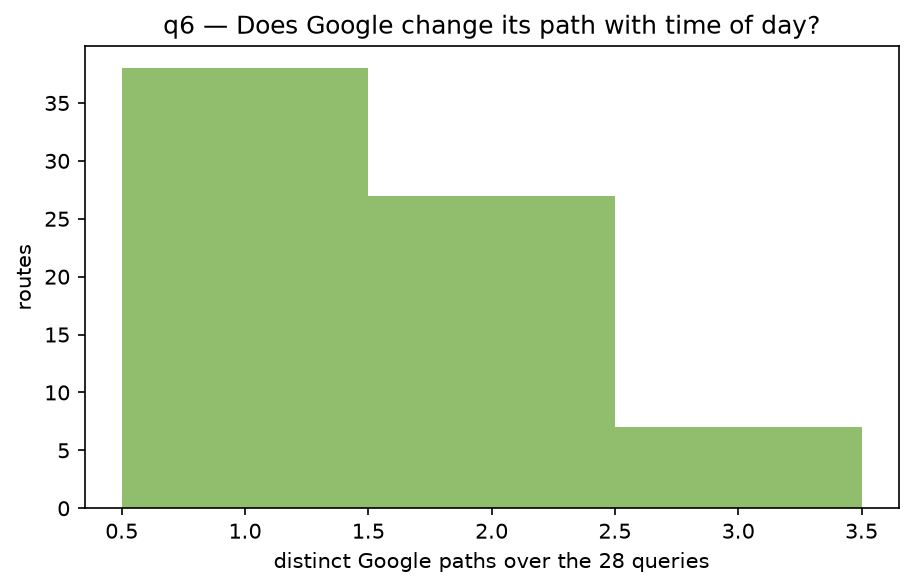
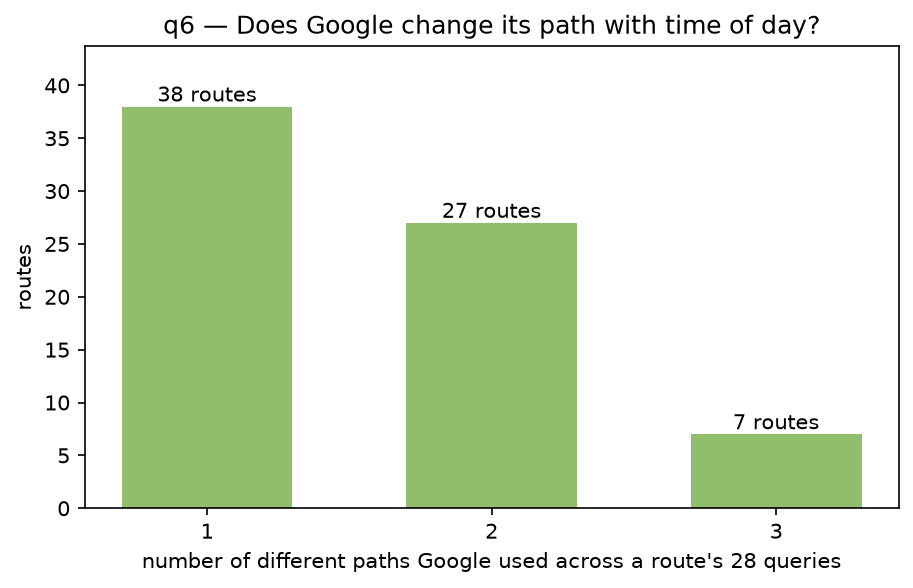
q6 plot: bars on whole numbers with counts (was a histogram with 0.5 ticks); D-65 report framing of slot timing + Google-side findings

diff --git a/src/llm_benchmark/4b_process_gmaps_v2.py b/src/llm_benchmark/4b_process_gmaps_v2.py
@@ -244,8 +244,11 @@ def make_plots(q: pd.DataFrame, r: pd.DataFrame, fig_dir):
     try:
         # q6 route-choice stability
         fig, ax = plt.subplots(figsize=(7, 4))
-        ax.hist(r.n_distinct_paths, bins=range(1, int(r.n_distinct_paths.max()) + 2), align="left", color="#90be6d")
-        ax.set_xlabel("distinct Google paths over the 28 queries")
+        counts = r.n_distinct_paths.value_counts().sort_index()          # whole numbers: bars, not a histogram
+        bars = ax.bar(counts.index.astype(str), counts.values, color="#90be6d", width=0.6)
+        ax.bar_label(bars, labels=[f"{v} routes" for v in counts.values])
+        ax.set_ylim(0, counts.max() * 1.15)
+        ax.set_xlabel("number of different paths Google used across a route's 28 queries")
         ax.set_ylabel("routes")
         ax.set_title("q6 — Does Google change its path with time of day?")
         fig.savefig(fig_dir / "q6_path_stability.png", dpi=150, bbox_inches="tight")
